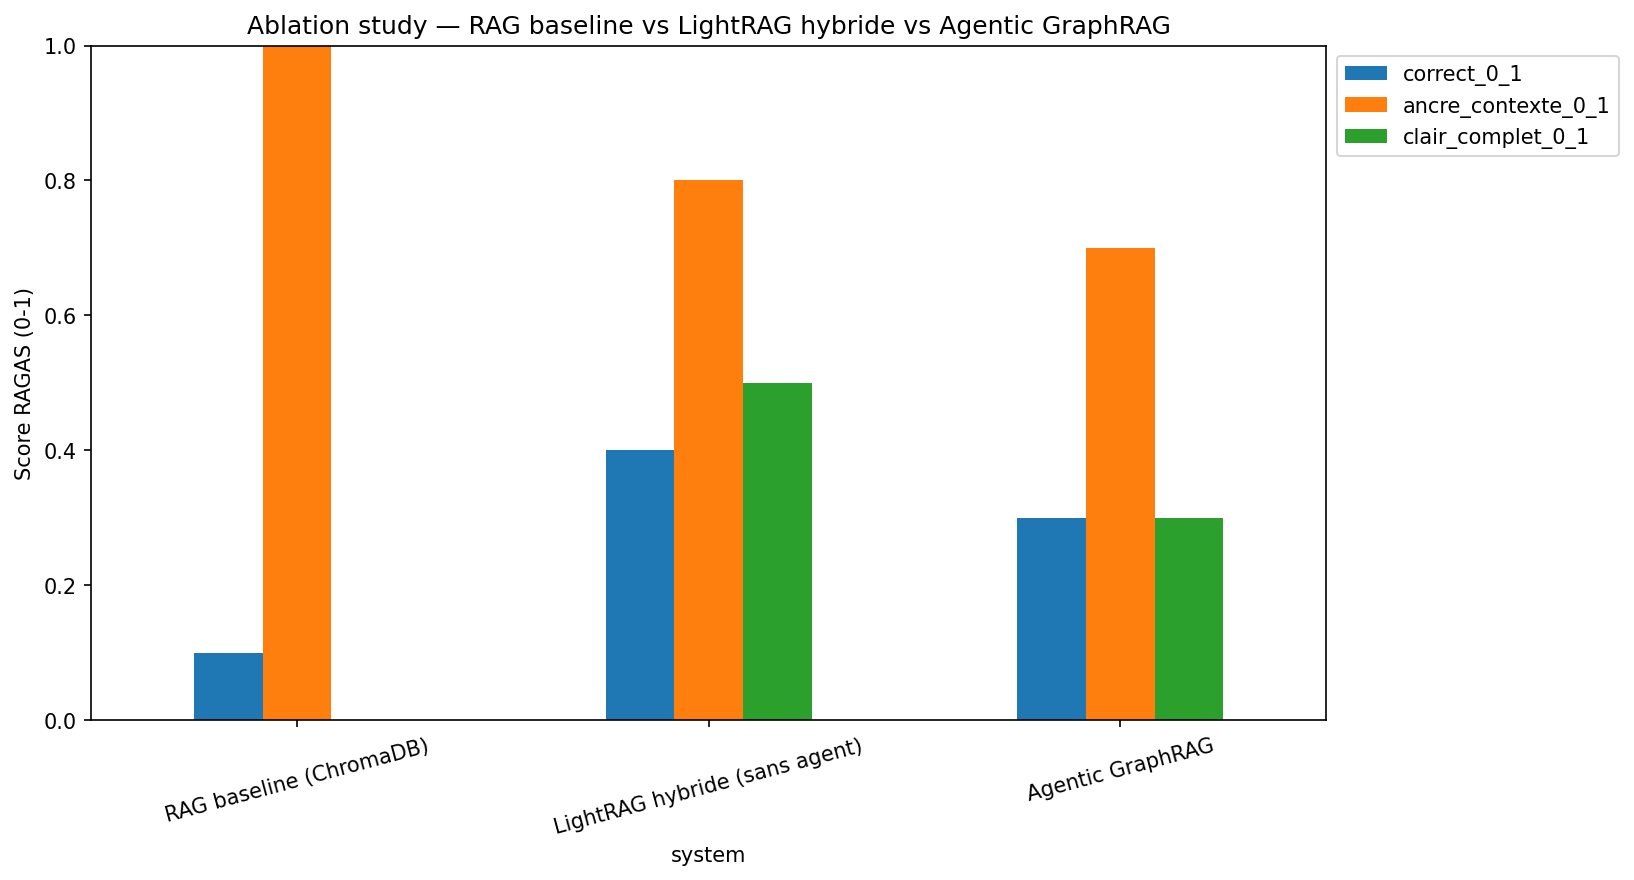
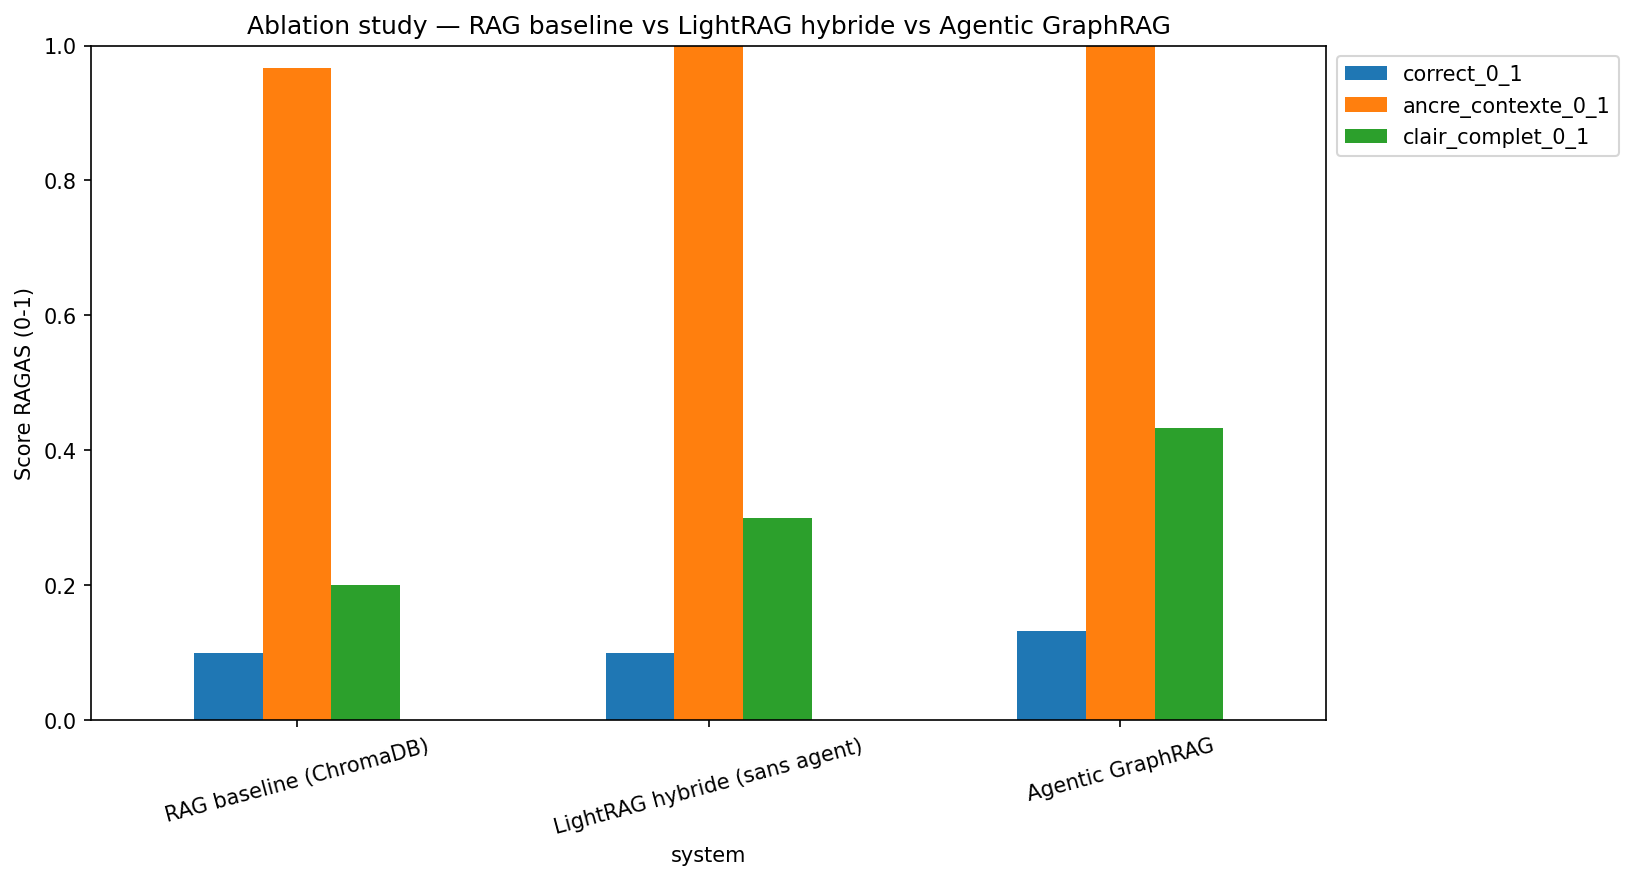
Journal a jour + tableau comparatif final (30 questions)

diff --git a/JOURNAL.md b/JOURNAL.md
@@ -2005,5 +2005,39 @@ Le script **`validate_multihop_benchmark.py`** a permis de filtrer automatiqueme
 - **Limite rencontrée** : le quota gratuit Groq (100 000 tokens/jour sur le modèle juge) est systématiquement dépassé à 30 questions à cause du nombre d'appels multiplié par les itérations de SELF_CORRECT. Décision : rester sur un échantillon de 10 questions pour cette échéance, et documenter ce plafond d'API gratuite comme une limite matérielle du projet (cf. section Limites du mémoire), plutôt que de perdre du temps supplémentaire à contourner ce plafond.
 - Hypothèse à documenter dans le mémoire : la valeur ajoutée de la boucle agentique (capacité à reformuler et relancer une recherche après un premier échec) pourrait se manifester plus nettement sur un échantillon plus larges, là où les erreurs ponctuelles d'un système sans boucle de correction pèsent proportionnellement plus lourd , hypothèse cohérente avec l'égalité observée sur ce petit échantillon, mais non vérifiée faute de temps/quota pour la tester à plus grande échelle.
 
+---
+
+### 31 Juillet – 06 Août 2026 — Checkpointing + rotation multi-comptes Groq : dépassement du plafond de 30 questions
+
+#### Retour sur la limite du 30/07
+
+Le bilan du 30/07 documentait le plafond de quota Groq comme une limite matérielle à accepter (retour à 10 questions). En reprenant le retour du prof (4 pistes : checkpointing après chaque question, étaler sur plusieurs jours, 2e compte Groq, génération locale via Ollama), j'ai décidé de combiner la piste 1 (checkpointing, déjà utilisée pour l'indexation aux Sprints 1-2) avec une rotation automatique sur **3 comptes Groq** (au lieu d'un seul 2e compte) pour éviter d'avoir à relancer manuellement chaque jour.
+
+#### Implémentation
+
+- **`src/utils/groq_rotation.py`** (nouveau module) : rotation automatique sur `GROQ_API_KEY` / `GROQ_API_KEY_2` / `GROQ_API_KEY_3` (3 comptes distincts). L'état (clé active, horodatage des clés marquées épuisées) est persisté dans `Eval_agentic/groq_key_state.json` , une clé épuisée redevient utilisable automatiquement après 24h (reset journalier du quota gratuit Groq). Lève une exception dédiée `AllGroqKeysExhaustedError` quand les 3 clés sont épuisées, à capturer par l'appelant.
+- **`src/agent/graph_v3.py`** : le générateur, le juge CRITIQUE, et l'extraction de mots-clés interne de LightRAG (`groq_llm_func`, appelée à chaque `hybrid_search`) utilisent désormais cette rotation au lieu d'une clé fixe capturée une seule fois à l'import du module.
+- **Bug important corrigé au passage** : `_llm_call`, `_judge_call` et `node_hybrid_search` avalaient TOUTES les exceptions dans des `try/except Exception` larges , sans correctif, un quota épuisé aurait été transformé en fausse réponse `"[LLM ERROR] ..."` au lieu d'arrêter proprement l'évaluation, ce qui aurait silencieusement pollué le checkpoint. Ajout d'un `except AllGroqKeysExhaustedError: raise` avant chaque `except Exception` générique pour laisser l'erreur remonter jusqu'à la boucle d'évaluation.
+- **`Sprint4_Ablation_Study.ipynb`**, nouvelle section 2bis : fonction `checkpointed_run()` , chaque réponse est écrite sur disque (`Eval_agentic/plan_c_checkpoint_30q.json`) dès qu'elle est calculée (pas de batching). Au relancement d'une cellule (même le lendemain, même sur un nouveau kernel), les questions déjà checkpointées sont relues et non régénérées. Les 3 boucles de génération (RAG baseline, LightRAG, Agentic) s'arrêtent proprement sur `AllGroqKeysExhaustedError` au lieu de planter, avec un message explicite indiquant où reprendre.
+- `EVAL_N_QUESTIONS` remonté de 10 à **30** dans `.env`.
+
+#### Résultats obtenus
+
+- Exécution complète du notebook avec le nouveau mécanisme : **30/30 questions terminées sur les 3 systèmes**, sans dépasser le quota grâce à la rotation automatique sur les 3 comptes.
+- Export des 90 réponses (30 questions × 3 systèmes) vers `Eval_agentic/plan_c_evaluation_manuelle.csv`.
+- Notation des 90 réponses selon la grille du prof (correct / ancré au contexte / clair-complet) : première passe de notation **relecture et correction complètes de ma part** avant validation finale (un correctif appliqué sur `ancre_contexte`, RAG baseline).
+- Résultats agrégés finaux (`Eval_agentic/plan_c_resultats_agreges.csv`) :
+
+| Système | Correct | Ancré | Clair/complet | Score moyen |
+|---|---|---|---|---|
+| RAG baseline (ChromaDB) | 0.100 | 0.967 | 0.200 | **0.422** |
+| LightRAG hybride (sans agent) | 0.100 | 1.000 | 0.300 | **0.467** |
+| Agentic GraphRAG | 0.133 | 1.000 | 0.433 | **0.522** |
+
+- L'Agentic GraphRAG reste en tête sur les 3 critères à 30 questions, confirmant avec un échantillon 3× plus grand la tendance déjà observée sur 10 questions (où l'écart avec LightRAG s'était résorbé après les correctifs du prompt RESPONSE).
+- **Correction de l'hypothèse du 30/07** : la limite de quota Groq à 30 questions, alors documentée comme limite matérielle définitive du projet, est finalement résolue par le mécanisme de checkpointing + rotation multi-comptes , plus besoin de la présenter comme une limite non résolue dans le mémoire. La démarche (diagnostic → plan A/B/C du prof → solution technique combinant checkpointing et rotation) reste intéressante à documenter comme exemple de gestion d'une contrainte d'infrastructure.
+
+
+
 _Journal mis à jour quotidiennement — Wiame Anejjar_
-_Dernière mise à jour : 30 Juillet 2026_
+_Dernière mise à jour : 06 Août 2026_
